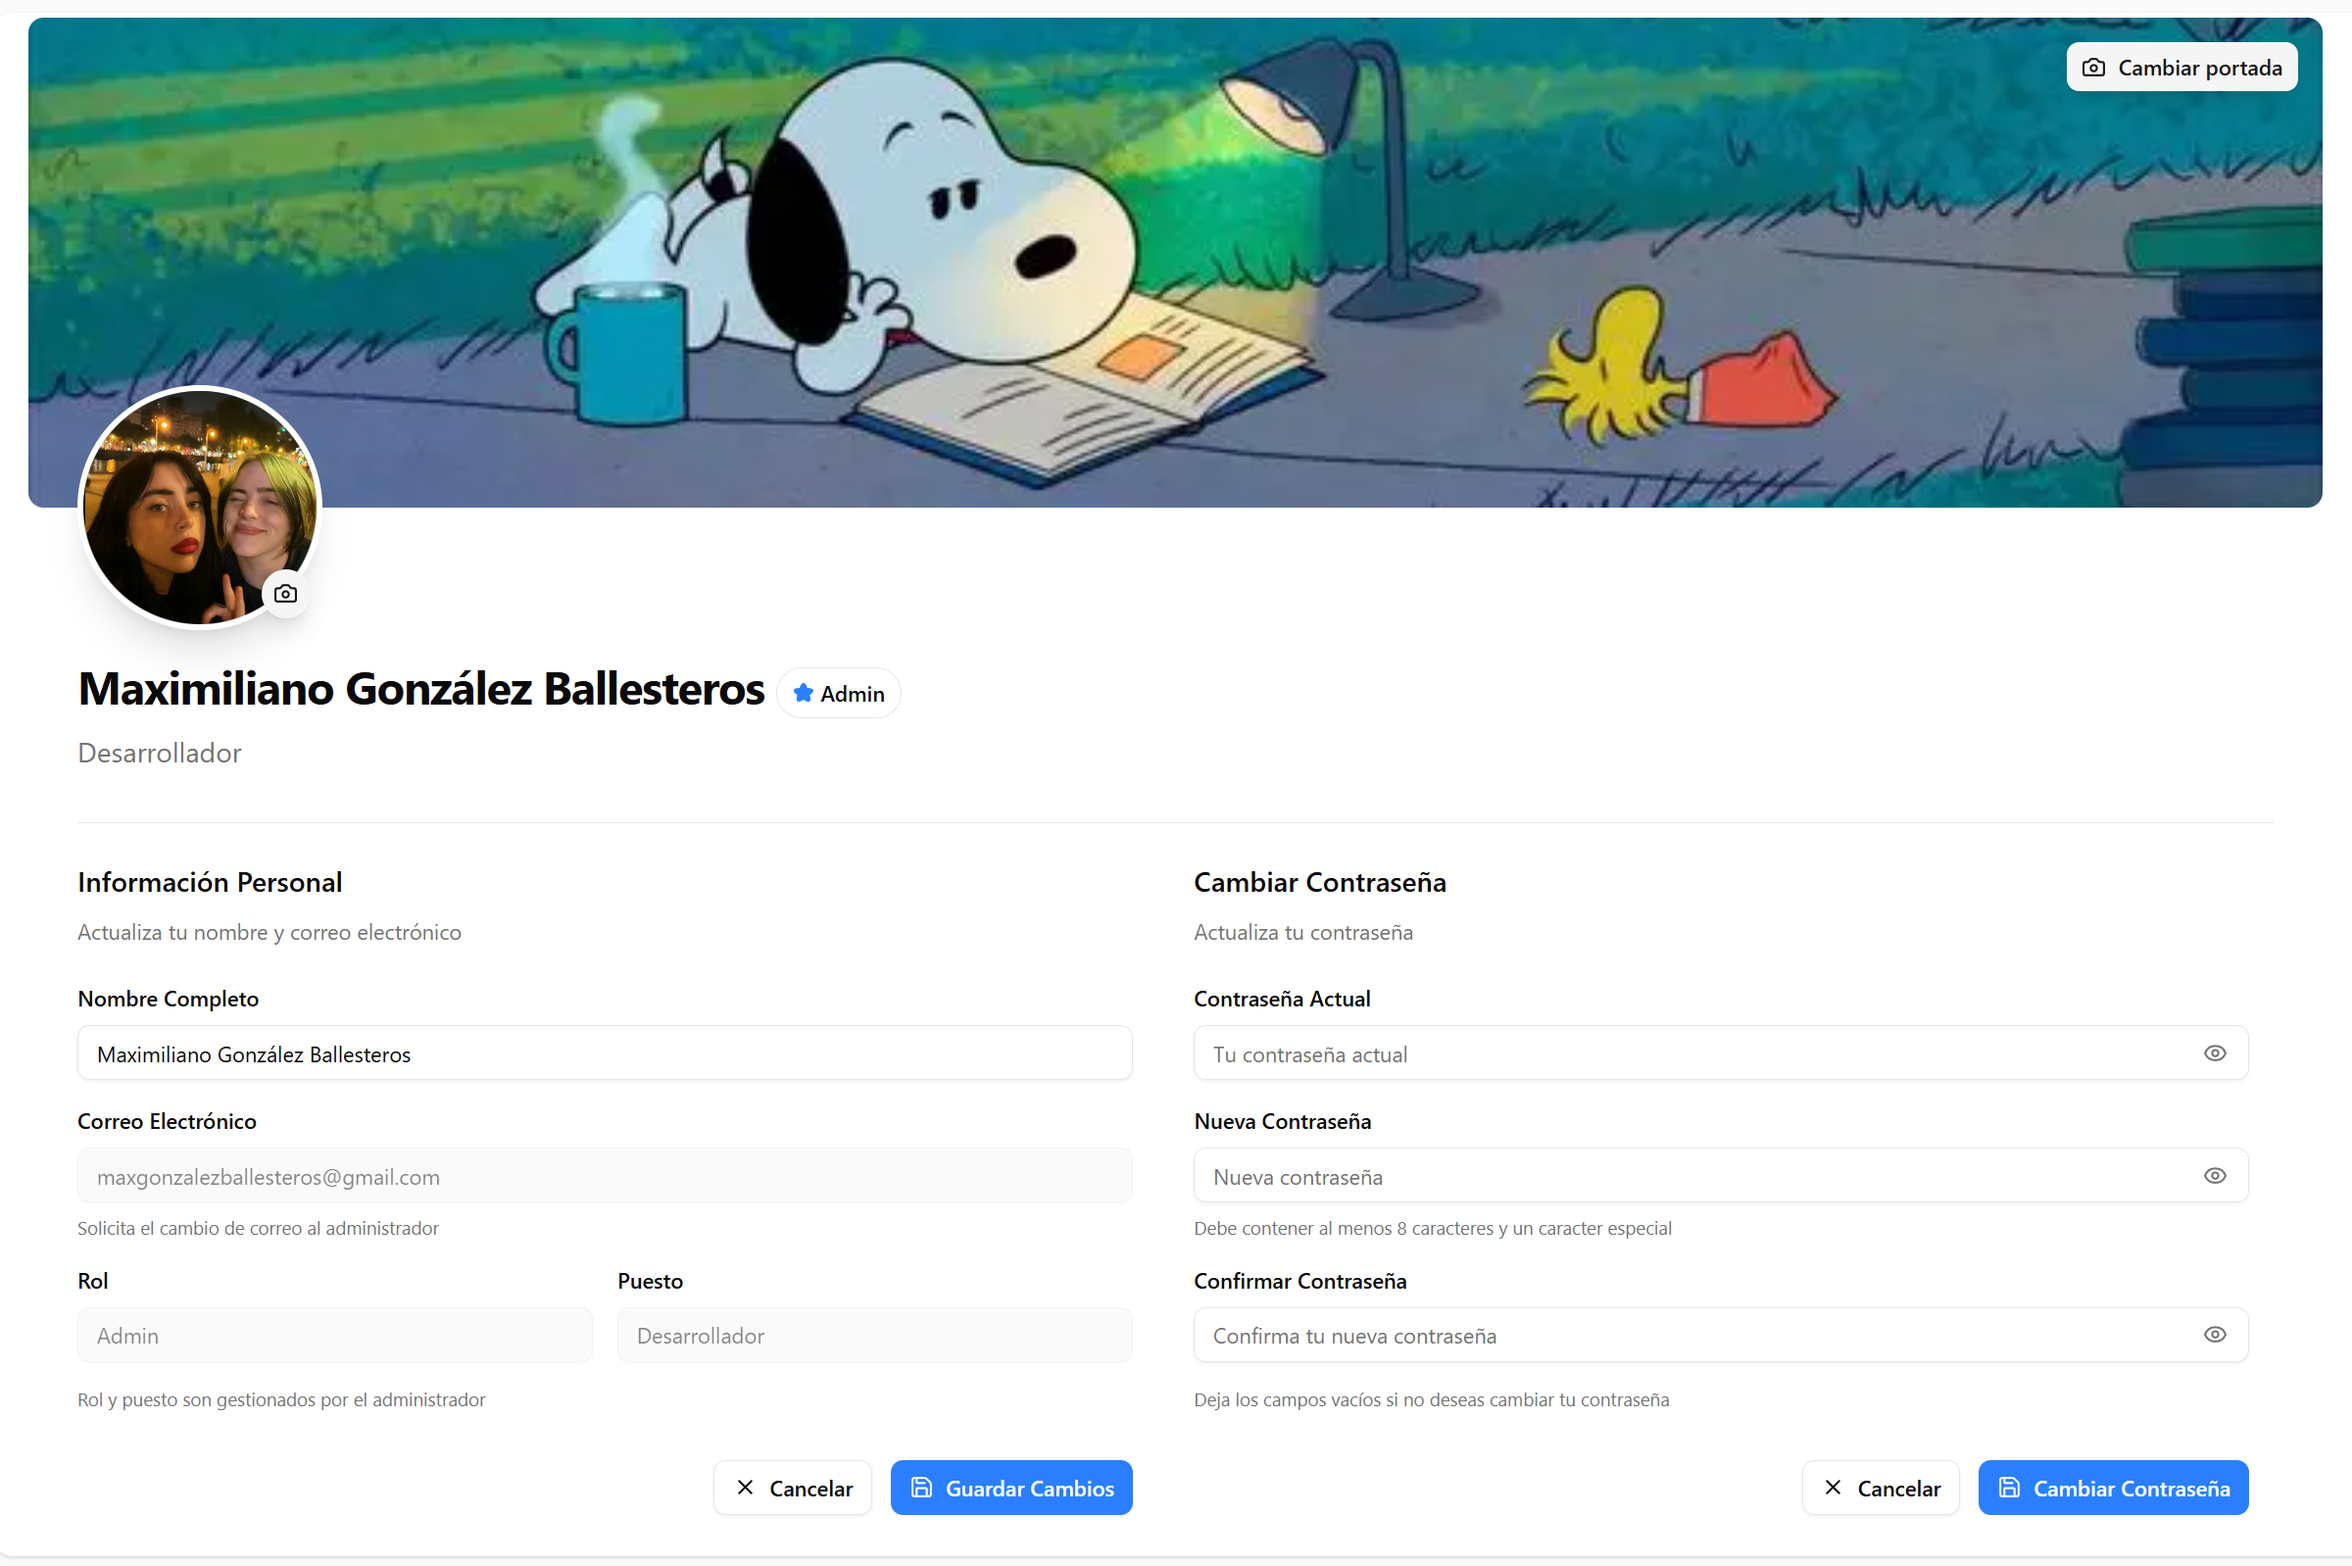
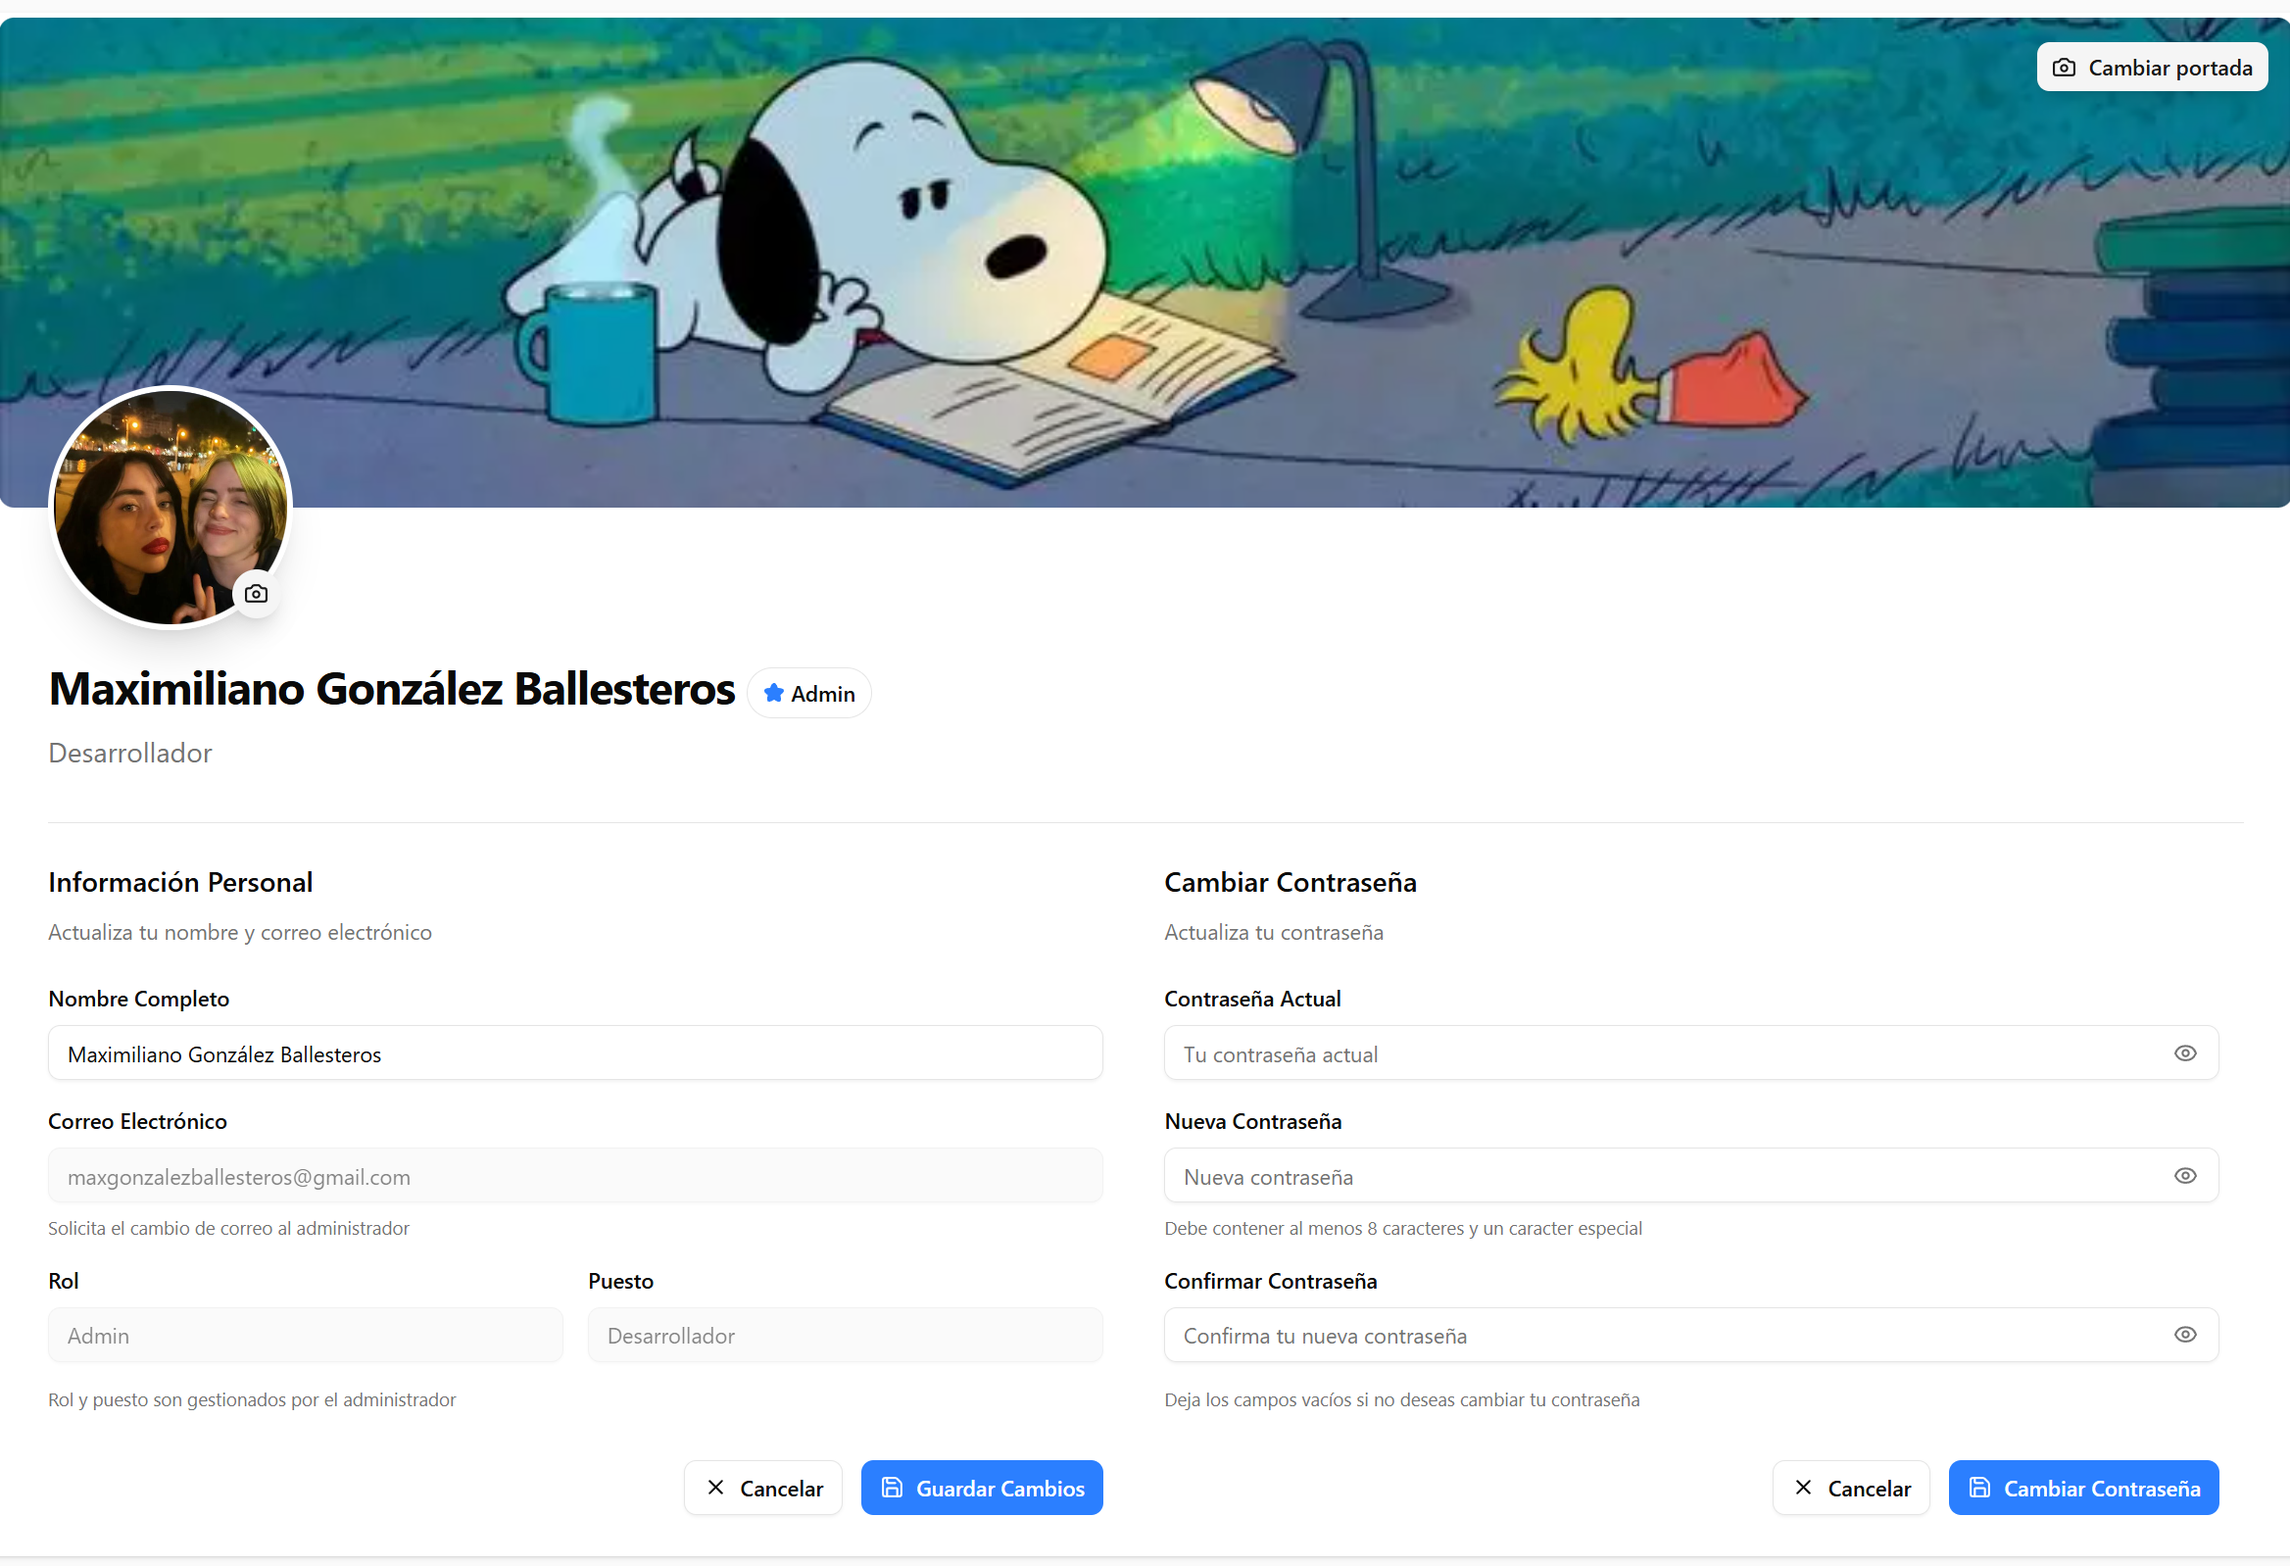
feat(projects): document CAF self-service profile and update detail captures
Document the self-service account profile (name and password editing with a
social-network style photo/cover view) in the CAF portfolio doc and project
data. The email is intentionally locked for the user (disabled input) and its
change is routed through an admin to preserve account traceability; capture
this product decision in a new design-decisions section. Refresh the CAF
detail gallery with the edited-profile capture and light-theme dashboard and
agenda screenshots.

diff --git a/data/projects.ts b/data/projects.ts
@@ -130,6 +130,7 @@ export const projects: Project[] = [
         "**Panel de control (dashboard):** analíticas de ingresos mensuales, pacientes activos, ganancias y métricas operativas, con filtros por periodo (30 días, 3 meses, 1 año) y tarjetas + gráficos.",
         "**Landing page pública:** optimizada para SEO, enfocada a captación de nuevos pacientes e integrada con el sistema interno.",
         "**Seguridad y roles:** accesos por tipo de usuario y manejo seguro de sesiones.",
+        "**Cuenta de usuario autocontrolada (perfil):** edición de nombre y contraseña desde el propio perfil, con vista de tipo red social (foto de perfil y portada). El correo queda bloqueado para el usuario (input deshabilitado) y su cambio se solicita a un administrador, preservando la trazabilidad de la cuenta.",
       ],
       stack: [
         "Framework: Next.js, React",
@@ -141,11 +142,16 @@ export const projects: Project[] = [
       ],
       gallery: [
         {
-          src: "/images/projects/caf/analytics.png",
-          alt: "Analíticas de ingresos del Sistema de Gestión Clínica",
+          src: "/images/projects/caf/editar_profile.png",
+          alt: "Edición de perfil de usuario",
         },
         {
-          src: "/images/projects/caf/agenda.png",
+          src: "/images/projects/caf/dashboard-light.png",
+          alt: "Dashboard Principal",
+        },
+
+        {
+          src: "/images/projects/caf/agenda-light.png",
           alt: "Agenda de citas del Sistema de Gestión Clínica",
         },
         {
@@ -482,8 +488,7 @@ export const projects: Project[] = [
     hook: "Fork modernizado de la extensión de VS Code que resalta colores en el editor; reconstruido con TypeScript, esbuild y pnpm.",
     metric: "Render sin lag — debounce de 150ms",
     tags: ["TypeScript", "esbuild", "pnpm", "VS Code"],
-    image:
-      "/images/projects/color-highlight-v2/main.jpg",
+    image: "/images/projects/color-highlight-v2/main.jpg",
     imageAlt: "Editor de VS Code con colores resaltados por la extensión",
     links: [
       {

diff --git a/docs/projects/candidatos/centro-caf-portfolio.md b/docs/projects/candidatos/centro-caf-portfolio.md
@@ -61,6 +61,12 @@ Las clínicas pequeñas y medianas dependen de herramientas genéricas, procesos
 - **Panel de control (dashboard):** analíticas de ingresos mensuales, pacientes activos, ganancias y métricas operativas, con filtros por periodo (30 días, 3 meses, 1 año) y tarjetas + gráficos.
 - **Landing page pública:** optimizada para SEO, enfocada a captación de nuevos pacientes e integrada con el sistema interno.
 - **Seguridad y roles:** accesos por tipo de usuario y manejo seguro de sesiones.
+- **Cuenta de usuario autocontrolada (perfil):** el propio usuario edita su **nombre** y **contraseña** desde su perfil, con una vista de tipo red social (foto de perfil y portada). El **correo queda bloqueado para el usuario**: tiene el input deshabilitado con un mensaje que indica solicitar el cambio a un administrador.
+
+### Decisiones de diseño
+
+- **El correo no se edita desde el perfil del usuario.** Es el identificador único que ata la trazabilidad de cada cuenta (historial, pagos, permisos); permitir cambiarlo libremente rompería esa trazabilidad y generaría ambigüedad entre registros. Por eso el input aparece deshabilitado con un mensaje que remite a solicitar el cambio a un administrador, quien lo gestiona centralizadamente.
+- **La vista de perfil usa estética de red social** (foto de perfil y portada) para que la cuenta se sienta propia y moderna. En la demo las imágenes son estáticas: el upload real a storage quedó como siguiente paso, priorizando features de negocio sobre el mantenimiento de un storage en línea.
 
 ### Stack
 
